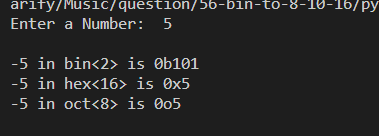
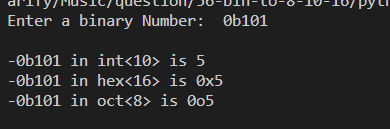
update #56

diff --git a/Medium-Questions/56-bin-to-8-10-16/python/main.py b/Medium-Questions/56-bin-to-8-10-16/python/main.py
@@ -3,16 +3,17 @@ import sys
 
 
 def main():
-    n = input("Enter a Number:  ")
-    if not n.isdigit():
-        sys.exit("Input Must a Number ")
-
+    n = input("Enter a binary Number:  ")
+    m = n
     # convert str to int
-    n = int(n)
-    
-    print(f"\n-{n} in bin<2> is {bin(n)}")
-    print(f"-{n} in hex<16> is {hex(n)}")
-    print(f"-{n} in oct<8> is {oct(n)}\n")
+    try:
+        n = int(n, base=2)
+    except ValueError:
+        sys.exit("invalid input")
+
+    print(f"\n-{m} in int<10> is {n}")
+    print(f"-{m} in hex<16> is {hex(n)}")
+    print(f"-{m} in oct<8> is {oct(n)}\n")
 
 if __name__ == '__main__':
     main()
